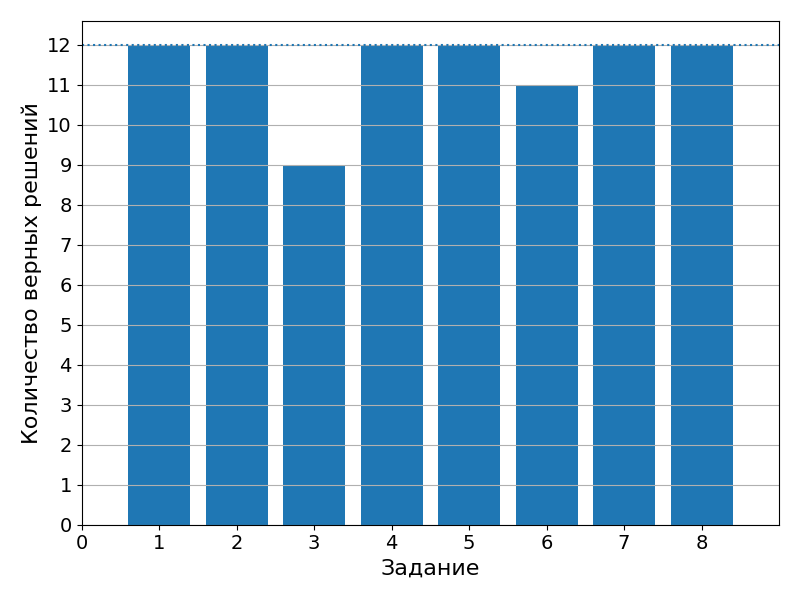
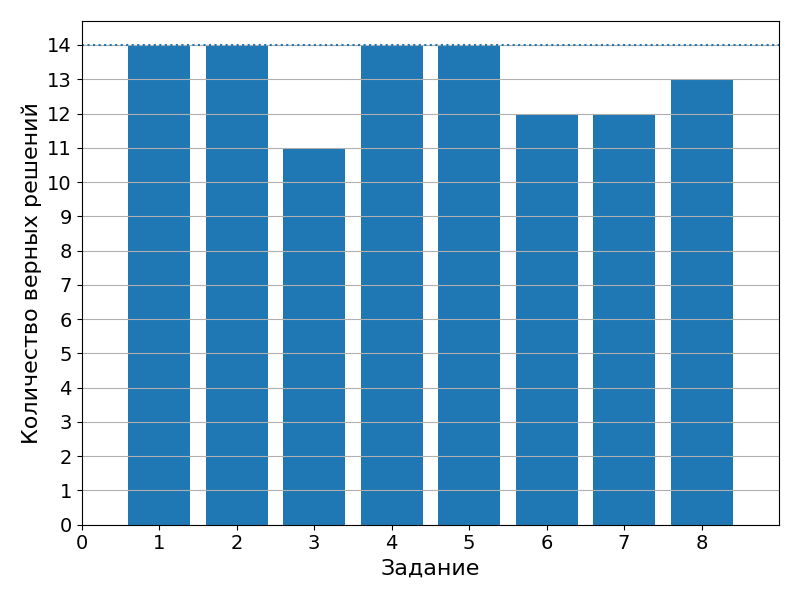
october points updated

diff --git a/seminars/2021-10-28/synopsis.md b/seminars/2021-10-28/synopsis.md
@@ -11,17 +11,17 @@ date: 2021-10-28
 |    ID    | 1 | 2 | 3 | 4 | 5 | 6 | Оценка |
 |   ---    |---|---|---|---|---|---|---|
 | **2134** | - | - | - | - | - | - | **2** |
-| **1579** | - | - | - | - | - | - | **2** |
-| **8890** | - | - | - | - | - | - | **2** |
+| **1579** | 3 | 3 | 3 | 3 | 3 | - | **4** |
+| **8890** | - | - | 3 | 0 | 3 | 3 | **3** |
 | **2842** | - | - | - | - | - | - | **2** |
-| **2841** | - | - | - | 3 | 3 | - | **2** |
-| **1049** | - | - | 3 | 3 | 3 | 3 | **3** |
-| **0934** | 3 | 3 | 3 | 3 | 3 | - | **4** |
+| **2841** | 3 | 3 | 3 | 3 | 3 | - | **4** |
+| **1049** | 3 | 3 | 3 | 3 | 3 | 3 | **5** |
+| **0934** | 3 | 3 | 3 | 3 | 3 | 3 | **5** |
 | **1009** | - | - | - | - | - | - | **2** |
 | **1230** | 3 | 3 | 3 | 3 | 3 | 3 | **5** |
 | **5256** | - | - | - | - | - | - | **2** |
 | **7106** | - | - | - | - | - | - | **2** |
 | **3730** | 3 | 3 | 3 | 3 | 3 | 3 | **5** |
-| **4107** | - | - | - | - | - | - | **2** |
-| **1192** | - | - | - | - | - | - | **2** |
+| **4107** | 0 | 0 | 0 | 0 | 0 | - | **2** |
+| **1192** | 3 | - | 3 | 3 | 3 | - | **3** |
 | **1206** | - | - | - | - | - | - | **2** |

diff --git a/seminars/2021-10-26/synopsis.md b/seminars/2021-10-26/synopsis.md
@@ -6,7 +6,11 @@ date: 2021-10-26
 
 # 26 октября 2021
 
-Самостоятельная работа на тему "Битовые операции".
+Самостоятельная работа на тему "Битовые операции". Результаты
+
+![grades](gradehist_2021_10_26.png)
+
+![tasks](tasks_2021_10_26.png)
 
 ## Структуры данных
 
